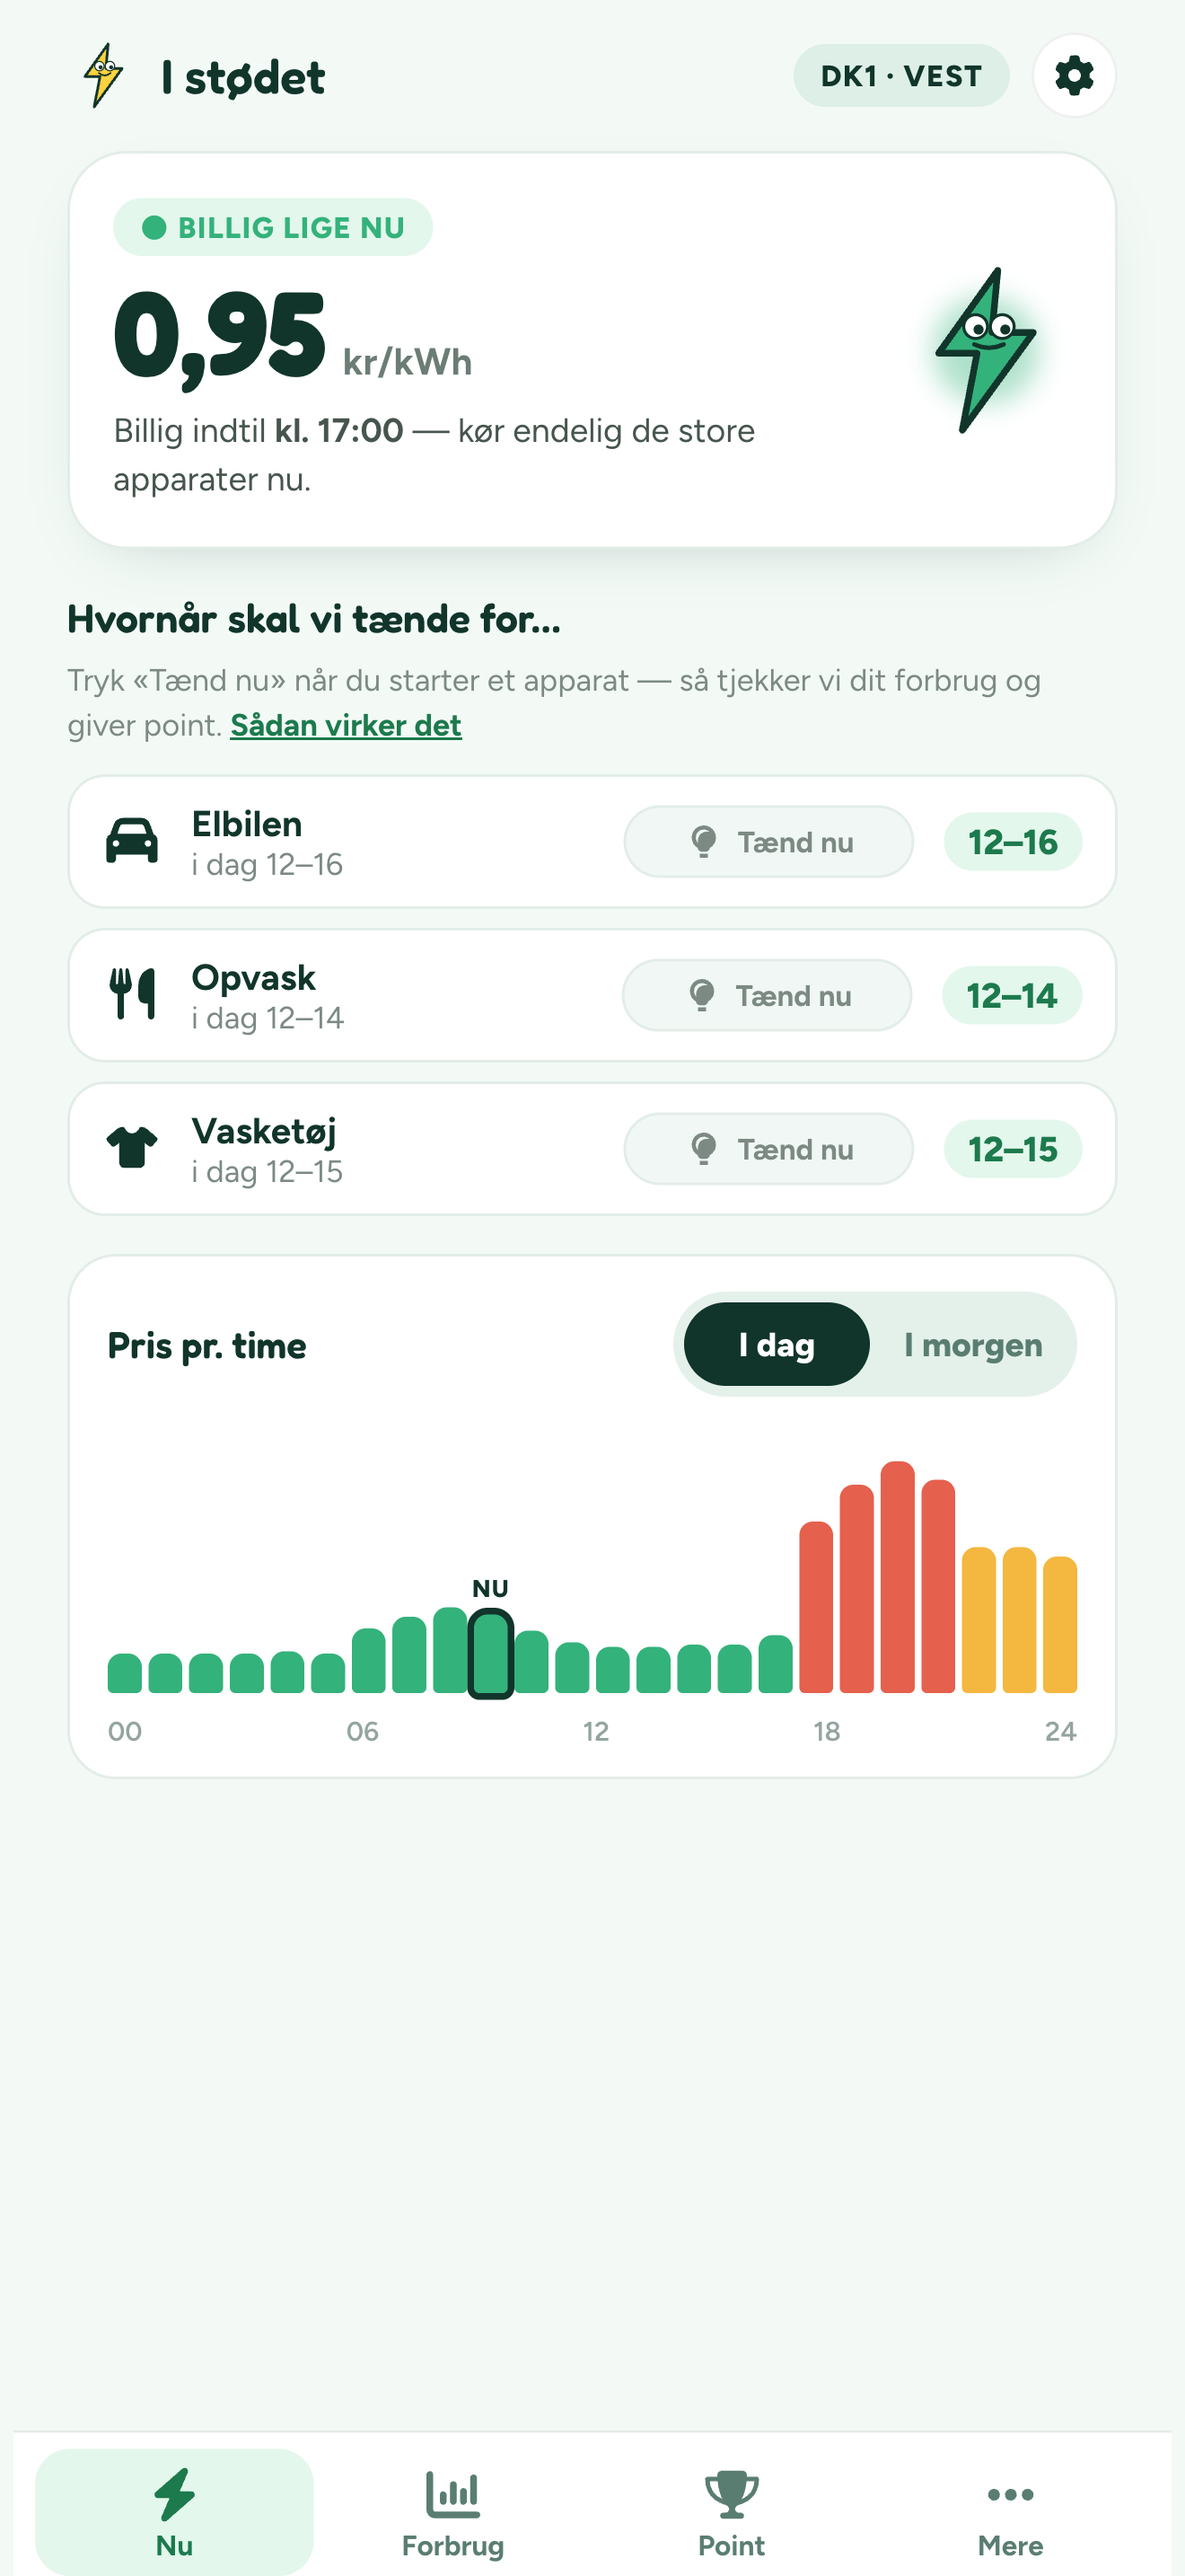
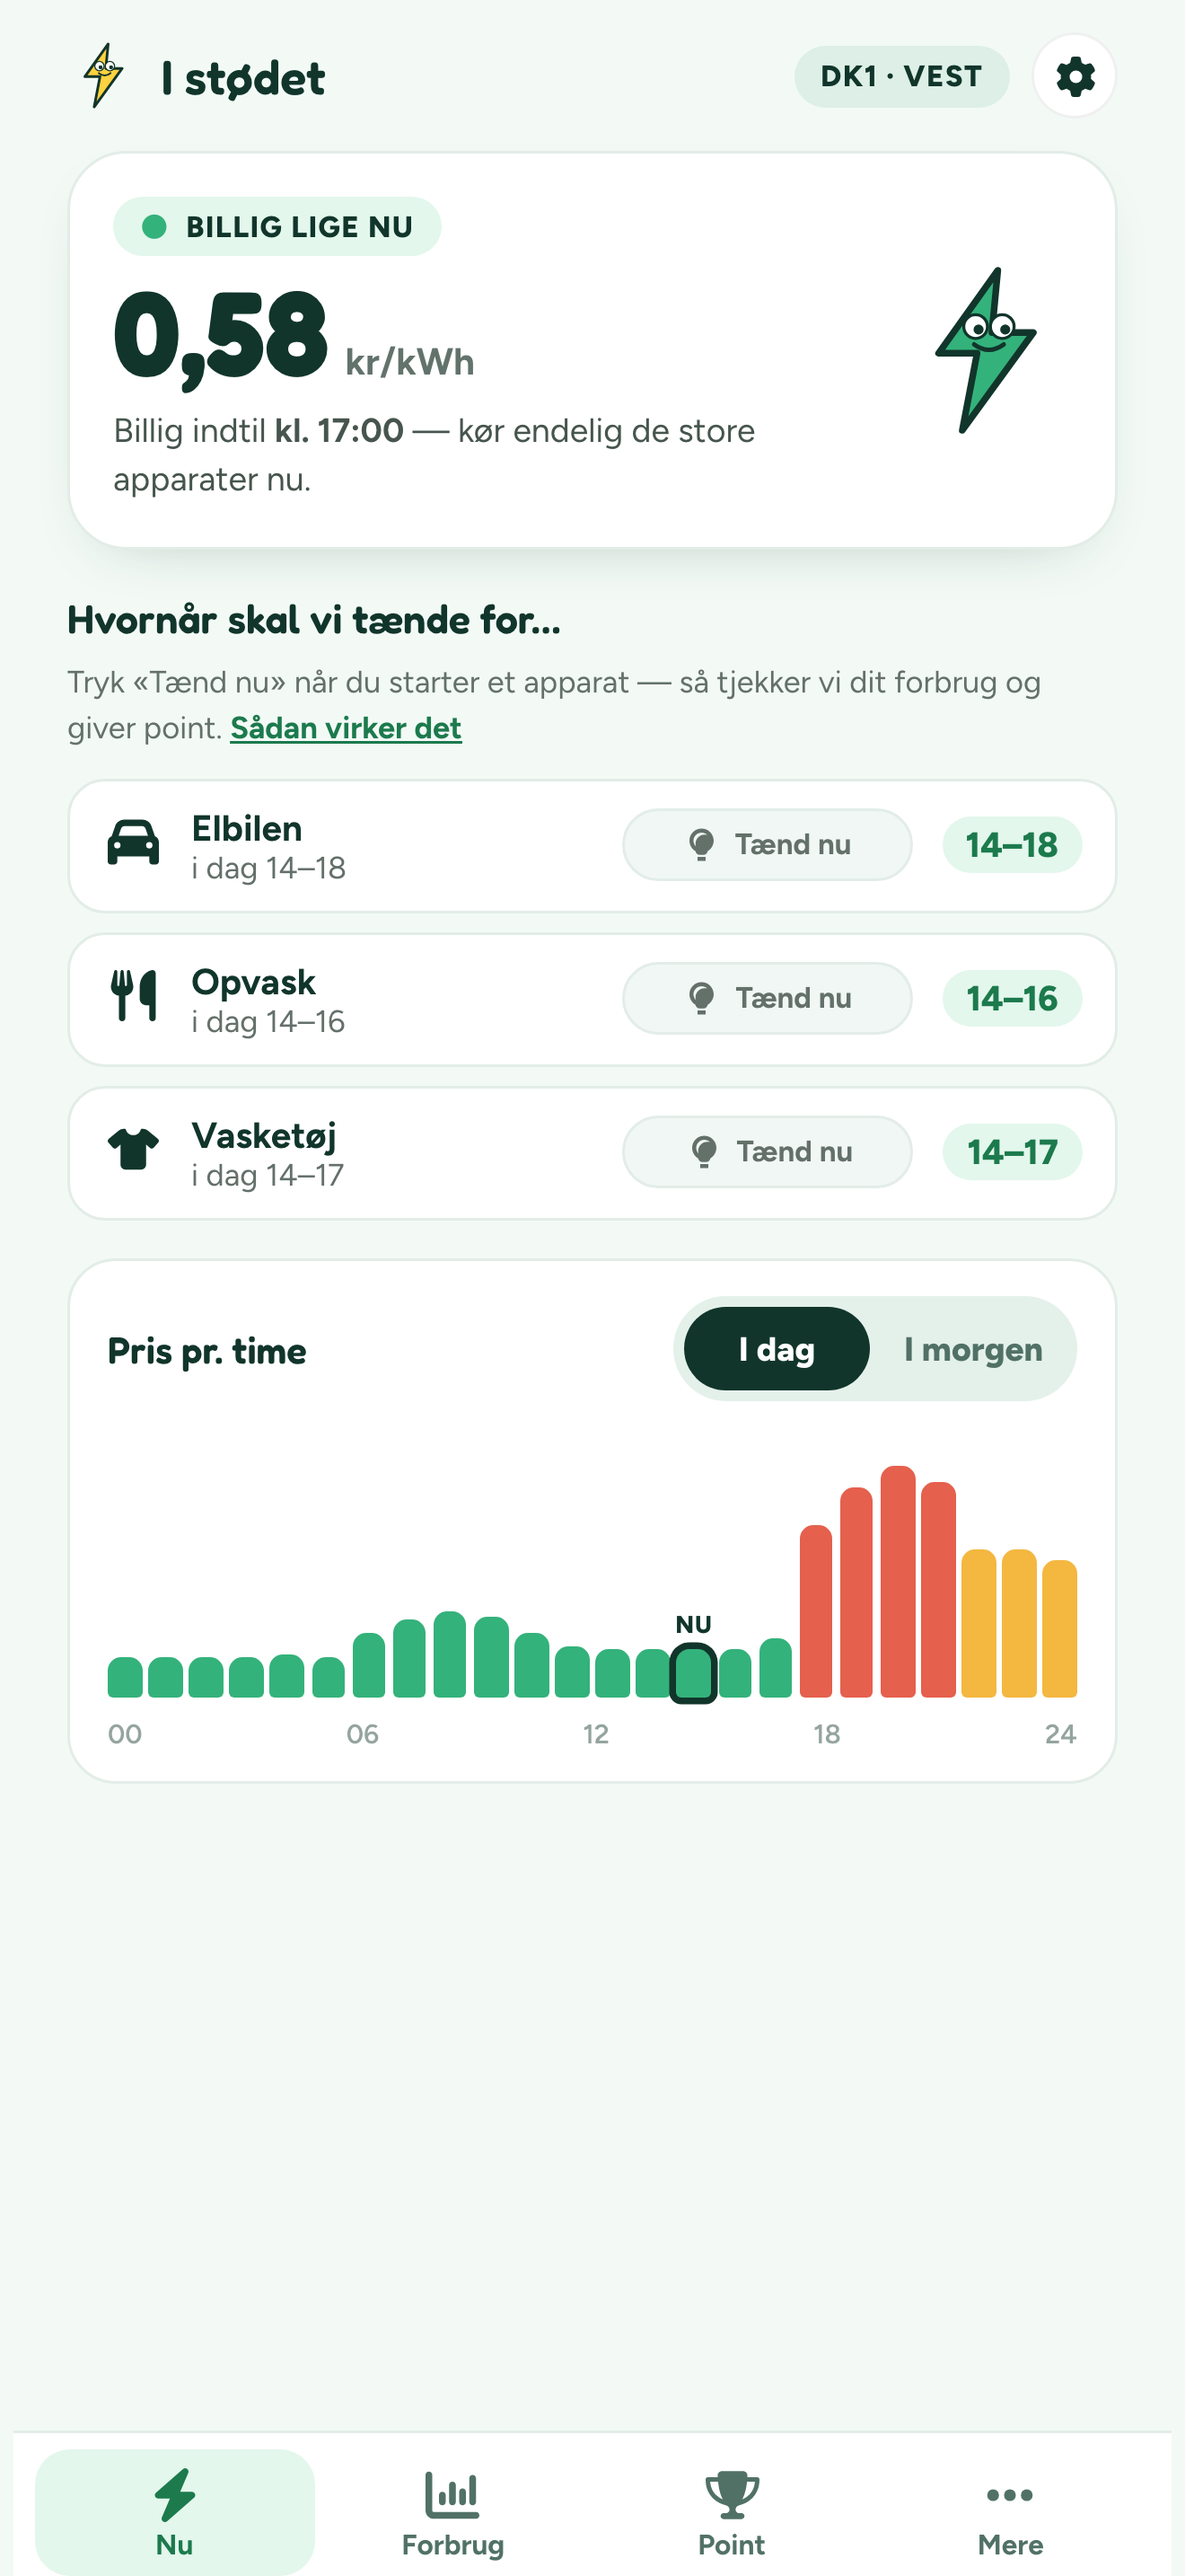
docs(app-store): screenshots for iPhone 6.9 and iPad 13, metadata for build 4
Screenshots rendered from the app with real spot prices (clock frozen at
2026-10-10 14:20) via CDP device emulation; replaces the stale drafts
and the no longer required 6.5" set. Description now covers the daily
notification, the widget and the iPad/Mac layout with Historik.

diff --git a/scripts/store-screenshots.js b/scripts/store-screenshots.js
@@ -1,0 +1,58 @@
+// App Store screenshots at exact store sizes, rendered from the app served by serve-frozen.mjs
+// (clock frozen at 2026-10-10 14:20, real spot prices for that day). Device metrics are emulated
+// via CDP so the page sees phone/iPad points while the capture is in device pixels.
+// Run: npm run build && node scripts/serve-frozen.mjs &
+//      dev-browser --headless --browser store --timeout 300 < scripts/store-screenshots.js
+// Files land in ~/.dev-browser/tmp/store-<dir>-<name>.png; copy them to docs/app-store/screenshots/.
+const B = "http://127.0.0.1:8144/app/";
+const DEVICES = [
+  { dir: '6.9', w: 440, h: 956, scale: 3 },          // 1320 x 2868
+  { dir: 'ipad-13', w: 1376, h: 1032, scale: 2 },    // 2752 x 2064 (landscape)
+];
+const p2 = n => String(n).padStart(2, '0');
+const aps = ['bil', 'vask', 'opvask'];
+const marks = [];
+for (let i = 0; i < 26; i++) { const dt = new Date(2026, 9, 10 - i); if (i % 4 === 3) continue;
+  for (let j = 0; j < 1 + (i % 3); j++) marks.push({ id: `s${i}-${j}`, apparat: aps[j], dato: `${dt.getFullYear()}-${dt.getMonth()+1}-${dt.getDate()}`,
+    startHour: i === 0 ? [3, 12, 13][j] : [1, 12, 22][j], varighed: 3, status: i === 0 && j ? 'pending' : 'confirmed', point: 8 + (i * 7) % 15 + j * 4 }); }
+const GAMIFY = JSON.stringify({ totalPoint: 1240, streak: 12, badges: { natteravn: true, sparefugl: true, dage30: false, sandsiger: true } });
+
+const page = await browser.getPage("store");
+const cdp = await page.context().newCDPSession(page);
+await page.emulateMedia({ reducedMotion: 'reduce' });
+for (const d of DEVICES) {
+  await cdp.send('Emulation.setDeviceMetricsOverride', { width: d.w, height: d.h, deviceScaleFactor: d.scale, mobile: d.w < 700 });
+  await page.goto(B, { waitUntil: 'load' });
+  const busy = () => page.evaluate(() => typeof window.setTab !== 'function' || /Henter elpriser|Henter priser/.test(document.body.innerText));
+  const settle = async () => { for (let i = 0; i < 120 && await busy(); i++) await page.waitForTimeout(250); await page.evaluate(() => document.fonts.ready); await page.waitForTimeout(1200); };
+  const prep = async (st, extra) => {
+    await page.evaluate(([st, extra]) => { localStorage.clear(); localStorage.setItem('elpriser_notif_intro', '1');
+      localStorage.setItem('elpriser_state', JSON.stringify(st));
+      for (const [k, v] of Object.entries(extra || {})) localStorage.setItem(k, v); }, [st, extra]);
+    await page.reload({ waitUntil: 'load' }); await settle();
+  };
+  const shot = async name => {
+    await page.waitForTimeout(600);
+    const { data } = await cdp.send('Page.captureScreenshot', { format: 'png', clip: { x: 0, y: 0, width: d.w, height: d.h, scale: 1 } });
+    await saveScreenshot(Buffer.from(data, 'base64'), `store-${d.dir}-${name}.png`);
+  };
+  const soft = { theme: 'soft', dso: 'n1', markup: 8 };
+  await prep(soft);
+  await shot('1-nu');
+  if (d.w < 700) {
+    await page.evaluate(() => window.selectHour(18)); await shot('2-prisens-dele'); await page.evaluate(() => window.selectHour(null));
+  } else {
+    await page.evaluate(() => window.setTab('historik')); await page.waitForTimeout(500);
+    await page.evaluate(() => window.setHistDays(30)); await page.waitForTimeout(500); await settle();
+    await shot('2-historik');
+  }
+  await prep({ theme: 'bold', dso: 'radius', markup: 8 });
+  await shot('3-tema-bold');
+  await prep({ theme: 'play', dso: 'n1', markup: 8 });
+  await shot('4-tema-legende');
+  await prep({ theme: 'play', dso: 'n1', markup: 8 }, { elpriser_claims: JSON.stringify(marks), elpriser_gamify: GAMIFY });
+  await page.evaluate(() => window.setTab('point')); await shot('5-point');
+  await prep(soft);
+  await page.evaluate(() => window.openSettings()); await page.waitForTimeout(500); await shot('6-indstillinger');
+  console.log(d.dir, 'done', page.url(), JSON.stringify(await page.evaluate(() => [innerWidth, devicePixelRatio])));
+}

diff --git a/docs/app-store/metadata.md b/docs/app-store/metadata.md
@@ -1,9 +1,8 @@
 # App Store Connect · metadata for «I stødet»
 
-Udkast pr. 2026-10-10. Alt her er klar til at blive kopieret ind i App Store Connect.
-Teksterne beskriver kun funktioner, der findes i appen i dag. Notifikationer og widget
-er ikke bygget endnu (beads `elpriser-8gu.1` og `elpriser-psx.7`) og må først nævnes,
-når de er med i det build, der sendes til review.
+Opdateret 2026-10-11 til build 4. Teksterne beskriver kun funktioner, der er med i build 4:
+priser, anbefalinger, prisens dele, Eloverblik-forbrug, point, daglig besked om morgendagens
+pris, widget, og på iPad og Mac historik og det store layout.
 
 ## Grundoplysninger
 
@@ -17,7 +16,7 @@ når de er med i det build, der sendes til review.
 | Sekundær kategori | Livsstil (Lifestyle) | valgfri |
 | Aldersgrænse | 4+ | ingen af indholdstyperne i spørgeskemaet forekommer |
 | Pris | Gratis | |
-| Enheder | iPhone | iPad er slået fra i v1 |
+| Enheder | iPhone, iPad, Mac med Apple-chip | Mac via «Designed for iPad», ingen Catalyst |
 | Privatlivspolitik | https://xn--i-stdet-t1a.dk/privatliv/ | |
 | Support-URL | https://xn--i-stdet-t1a.dk/support/ | |
 | Marketing-URL | https://xn--i-stdet-t1a.dk/ | valgfri |
@@ -49,6 +48,15 @@ DIT EGET FORBRUG
 Forbind Eloverblik, hvis du vil se dit eget forbrug time for time. Appen viser, hvor meget du brugte i de billige, de mellemste og de dyre timer. Du kan også se, hvor meget CO2 dit forbrug har udledt, og sammenligne timepris med en fastpris for den enkelte dag.
 
 Det er valgfrit at forbinde Eloverblik. Priserne virker uden.
+
+BESKED OM MORGENDAGENS PRIS
+Slå en daglig besked til, så får du morgendagens billigste tidsrum og prisen, når priserne er klar. Så kan du planlægge vask, opvask og opladning uden at åbne appen.
+
+PRISEN PÅ HJEMMESKÆRMEN
+Læg widgeten på hjemmeskærmen og se prisen lige nu og det næste billige tidsrum med et blik.
+
+STØRRE SKÆRM, MERE OVERBLIK
+På iPad og Mac får du sidebjælke, større tekst og fanen Historik med priserne time for time de sidste 7 eller 30 dage, dagenes snitpris og det mønster, der går igen.
 
 POINT FOR AT FLYTTE FORBRUG
 Tryk på «Tænd nu», når du starter et apparat. Når dit forbrug er klar hos Eloverblik, tjekker appen det og giver point for det forbrug, du har flyttet til billige timer.
@@ -118,24 +126,22 @@ Kontakt til review: Johannes Damsgaard-Bruhn, hej@i-stødet.dk. Telefonnummer ud
 
 ## Screenshots
 
-Udkast ligger i `docs/app-store/screenshots/`. De er taget fra web-versionen af appen i de
-præcise pixelmål, som App Store kræver, og viser samme skærme som iOS-appen. iOS-appen har
-derudover systemets statuslinje, så de endelige billeder bør tages i simulatoren, når
-projektet kan bygges i Xcode.
+Ligger i `docs/app-store/screenshots/` i de præcise pixelmål. De er renderet fra appens egen
+kode med rigtige spotpriser for 10. oktober 2026 kl. 14:20 (uret frosset, så billig-tiden er
+med), og med eksempel-markeringer på Point-skærmen. Genskab dem med
+`scripts/store-screenshots.js` (se kommentaren øverst i filen).
 
 | Mappe | Mål | Skærm |
 |---|---|---|
-| `6.9/` | 1320 × 2868 | iPhone 6,9" (påkrævet) |
-| `6.5/` | 1284 × 2778 | iPhone 6,5" |
+| `6.9/` | 1320 × 2868 | iPhone 6,9" (påkrævet, Apple skalerer til mindre iPhones) |
+| `ipad-13/` | 2752 × 2064 liggende | iPad 13" (påkrævet, når appen understøtter iPad) |
 
-Rækkefølge: 1 Nu-pris og anbefalinger · 2 Prisens dele for en time · 3 Netselskab og
-indstillinger · 4 Temaet «Bold» · 5 Temaet «Legende» · 6 Point.
+Rækkefølge iPhone: 1 Nu · 2 Prisens dele for en time · 3 Temaet «Bold» · 4 Temaet «Legende» ·
+5 Point · 6 Indstillinger. iPad: samme, men 2 er Historik (30 dage).
 
 ## Før du sender til review
 
-- [ ] Byg og arkivér i Xcode. iOS-ændringerne (kun iPhone, privacy manifest, dansk
-      lokalisering) er ikke bygget endnu.
-- [ ] Beslut om lokale notifikationer skal med i første version. Uden en native funktion er
-      der risiko for afvisning efter guideline 4.2 (minimum functionality).
-- [ ] Tag endelige screenshots i simulatoren.
+- [x] Byg og arkivér i Xcode (build 4, 2026-10-11).
+- [x] Native funktioner med i første version: daglig notifikation, widget, Keychain.
+- [x] Screenshots til iPhone 6,9" og iPad 13".
 - [ ] Hav et demo-token til Eloverblik klar, hvis review beder om det.
